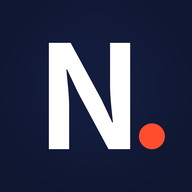
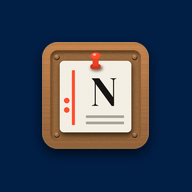
아이콘: S3 코르크 보드 시안 적용(#011E45, 56%), OG 이미지 갱신, SW nb-v8

diff --git a/politicians/index.html b/politicians/index.html
@@ -6,12 +6,12 @@
 <meta name="viewport" content="width=device-width,initial-scale=1,viewport-fit=cover">
 <title>정치인 DB · NewsBoard</title>
 <meta name="description" content="역대 국회의원 전원의 당선·정당 이력, 발의 법안, 뉴스 타임라인을 출처와 함께 정리한 공인 데이터베이스">
-<meta property="og:type" content="website"><meta property="og:site_name" content="NewsBoard"><meta property="og:title" content="정치인 DB — 역대 국회의원 타임라인"><meta property="og:description" content="당선·정당 이력, 발의 법안, 뉴스 타임라인을 출처와 함께"><meta property="og:image" content="https://pyw31337.github.io/news/og-image.png"><meta property="og:url" content="https://pyw31337.github.io/news/politicians/">
+<meta property="og:type" content="website"><meta property="og:site_name" content="NewsBoard"><meta property="og:title" content="정치인 DB — 역대 국회의원 타임라인"><meta property="og:description" content="당선·정당 이력, 발의 법안, 뉴스 타임라인을 출처와 함께"><meta property="og:image" content="https://pyw31337.github.io/news/og-image.png?v=8"><meta property="og:url" content="https://pyw31337.github.io/news/politicians/">
 <meta name="theme-color" content="#0f1630">
 <meta name="referrer" content="no-referrer">
 <link rel="manifest" href="manifest.webmanifest">
-<link rel="icon" href="icons/favicon-32.png" sizes="32x32"><link rel="icon" href="icons/icon-192.png" sizes="192x192">
-<link rel="apple-touch-icon" href="icons/apple-touch-icon.png">
+<link rel="icon" href="icons/favicon-32.png?v=8" sizes="32x32"><link rel="icon" href="icons/icon-192.png?v=8" sizes="192x192">
+<link rel="apple-touch-icon" href="icons/apple-touch-icon.png?v=8">
 <meta name="apple-mobile-web-app-capable" content="yes">
 <meta name="mobile-web-app-capable" content="yes">
 <meta name="apple-mobile-web-app-status-bar-style" content="black-translucent">

diff --git a/index.html b/index.html
@@ -11,7 +11,7 @@
 <meta property="og:site_name" content="NewsBoard">
 <meta property="og:title" content="NewsBoard — 오늘의 이슈와 사건의 흐름">
 <meta property="og:description" content="포털에서 가장 많이 회자된 오늘의 이슈 10개와, 인물·장소·사건을 따라가는 타임라인">
-<meta property="og:image" content="https://pyw31337.github.io/news/og-image.png">
+<meta property="og:image" content="https://pyw31337.github.io/news/og-image.png?v=8">
 <meta property="og:image:width" content="1200"><meta property="og:image:height" content="630">
 <meta property="og:url" content="https://pyw31337.github.io/news/">
 <meta property="og:locale" content="ko_KR">
@@ -21,8 +21,8 @@
 <meta name="theme-color" content="#0f1630">
 <meta name="referrer" content="no-referrer">
 <link rel="manifest" href="manifest.webmanifest">
-<link rel="icon" href="icons/favicon-32.png" sizes="32x32"><link rel="icon" href="icons/icon-192.png" sizes="192x192">
-<link rel="apple-touch-icon" href="icons/apple-touch-icon.png">
+<link rel="icon" href="icons/favicon-32.png?v=8" sizes="32x32"><link rel="icon" href="icons/icon-192.png?v=8" sizes="192x192">
+<link rel="apple-touch-icon" href="icons/apple-touch-icon.png?v=8">
 <meta name="apple-mobile-web-app-capable" content="yes">
 <meta name="mobile-web-app-capable" content="yes">
 <meta name="apple-mobile-web-app-status-bar-style" content="black-translucent">

diff --git a/sw.js b/sw.js
@@ -1,4 +1,4 @@
-const V='nb-v7',SHELL=['./','index.html','assets/style.css?v=7','assets/app.js?v=7','manifest.webmanifest','icons/icon-192.png','og-image.png'];
+const V='nb-v8',SHELL=['./','index.html','assets/style.css?v=7','assets/app.js?v=7','manifest.webmanifest','icons/icon-192.png','og-image.png'];
 self.addEventListener('install',e=>{e.waitUntil(caches.open(V).then(c=>c.addAll(SHELL)));self.skipWaiting()});
 self.addEventListener('activate',e=>{e.waitUntil(caches.keys().then(ks=>Promise.all(ks.filter(k=>k!==V).map(k=>caches.delete(k)))));self.clients.claim()});
 self.addEventListener('fetch',e=>{const u=new URL(e.request.url);if(e.request.method!=='GET'||u.origin!==location.origin)return;

diff --git a/admin/index.html b/admin/index.html
@@ -8,7 +8,7 @@
 <meta name="referrer" content="no-referrer">
 <meta name="theme-color" content="#0f1630">
 <title>NewsBoard 관리자</title>
-<link rel="icon" href="../icons/favicon-32.png">
+<link rel="icon" href="../icons/favicon-32.png?v=8">
 <link rel="stylesheet" href="https://cdn.jsdelivr.net/gh/orioncactus/pretendard@v1.3.9/dist/web/variable/pretendardvariable-dynamic-subset.min.css">
 <link rel="stylesheet" href="admin.css?v=1">
 </head>

diff --git a/scripts/make_icons.py b/scripts/make_icons.py
@@ -1,36 +1,31 @@
 #!/usr/bin/env python3
-"""아이콘 교체: python scripts/make_icons.py <원본이미지> [cx cy r]
-원본에서 원형 오브젝트(중심 cx,cy 반지름 r, 원본 대비 비율 0~1. 기본 0.5 0.485 0.28)를 잘라
-렛츠뷰 아이콘 비율(오브젝트 지름 = 아이콘 폭의 56%)로 남색 배경에 얹어 PWA 아이콘·파비콘·OG 이미지를 다시 만듭니다."""
+"""아이콘 생성: python scripts/make_icons.py [오브젝트 PNG(투명 배경 RGBA)]
+기본 오브젝트는 icons/candidates/s3_cork_object.png (scripts/render_icon_s3.py로 다시 그릴 수 있음).
+오브젝트 폭 = 아이콘 폭의 56%(렛츠뷰 비율), 배경 단색 #011E45로 PWA 아이콘·파비콘·OG 이미지를 만듭니다."""
 import sys, os
 from PIL import Image, ImageDraw, ImageFilter, ImageFont
 R = os.path.join(os.path.dirname(os.path.abspath(__file__)), '..')
-src = Image.open(sys.argv[1]).convert('RGB'); W, H = src.size
-cx, cy, r = [float(x) for x in sys.argv[2:5]] if len(sys.argv) >= 5 else (0.5, 0.485, 0.28)
-box = (int((cx - r) * W), int((cy - r) * H), int((cx + r) * W), int((cy + r) * H)); obj = src.crop(box).resize((1024, 1024), Image.LANCZOS)
-mask = Image.new('L', (1024, 1024), 0); ImageDraw.Draw(mask).ellipse((6, 6, 1018, 1018), fill=255); mask = mask.filter(ImageFilter.GaussianBlur(2))
-def bg(w, h):
-    g = Image.new('RGB', (w, h)); d = ImageDraw.Draw(g)
-    for y in range(h): t = y / h; d.line([(0, y), (w, y)], fill=(int(14 + 10 * (1 - t)), int(28 + 14 * (1 - t)), int(70 + 30 * (1 - t))))
-    return g
-def place(img, c, d):
-    sh = Image.new('L', img.size, 0); ImageDraw.Draw(sh).ellipse((c[0] - d / 2, c[1] - d / 2 + d * .05, c[0] + d / 2, c[1] + d / 2 + d * .05), fill=150)
-    img.paste((0, 0, 0), (0, 0), sh.filter(ImageFilter.GaussianBlur(d * .06)))
-    o = obj.resize((int(d), int(d)), Image.LANCZOS); m = mask.resize((int(d), int(d)), Image.LANCZOS)
-    img.paste(o, (int(c[0] - d / 2), int(c[1] - d / 2)), m); return img
-def icon(n, ratio=.56):
-    return place(bg(n, n), (n / 2, n / 2), n * ratio)
+NAVY = (1, 30, 69)
+src = sys.argv[1] if len(sys.argv) > 1 else os.path.join(R, 'icons/candidates/s3_cork_object.png')
+obj = Image.open(src).convert('RGBA'); obj = obj.crop(obj.getbbox())
+def place(img, c, w):
+    h = w * obj.height / obj.width; o = obj.resize((int(w), int(h)), Image.LANCZOS)
+    x, y = int(c[0] - w / 2), int(c[1] - h / 2)
+    sh = Image.new('L', img.size, 0); sh.paste(o.split()[3].point(lambda v: v * 160 // 255), (x, y + int(w * .05)))
+    img.paste((0, 0, 0), (0, 0), sh.filter(ImageFilter.GaussianBlur(max(1, w * .05))))
+    img.paste(o, (x, y), o); return img
+def icon(n, ratio=.56): return place(Image.new('RGB', (n, n), NAVY), (n / 2, n / 2), n * ratio)
 I = os.path.join(R, 'icons'); os.makedirs(I, exist_ok=True)
 icon(512).save(os.path.join(I, 'icon-512.png')); icon(192).save(os.path.join(I, 'icon-192.png'))
-icon(512, .50).save(os.path.join(I, 'maskable-512.png'))  # 마스킹 안전영역 고려
-icon(180).save(os.path.join(I, 'apple-touch-icon.png')); icon(32, .8).save(os.path.join(I, 'favicon-32.png'))
-og = place(bg(1200, 630), (600, 300), 330)
-d = ImageDraw.Draw(og)
-def F(s, b=True):
-    for p in ('/usr/share/fonts/opentype/noto/NotoSansCJK-Bold.ttc', '/System/Library/Fonts/AppleSDGothicNeo.ttc', '/usr/share/fonts/opentype/noto/NotoSerifCJK-Bold.ttc'):
-        try: return ImageFont.truetype(p, s, index=1 if 'Sans' in p else 0)
+icon(512, .50).save(os.path.join(I, 'maskable-512.png'))  # 마스킹 안전영역
+icon(180).save(os.path.join(I, 'apple-touch-icon.png')); icon(32, .9).save(os.path.join(I, 'favicon-32.png'))
+og = place(Image.new('RGB', (1200, 630), NAVY), (600, 290), 300); d = ImageDraw.Draw(og)
+def F(s):
+    for p in ('/usr/share/fonts/opentype/noto/NotoSansCJK-Bold.ttc', '/System/Library/Fonts/AppleSDGothicNeo.ttc'):
+        try: return ImageFont.truetype(p, s, index=1 if 'Noto' in p else 0)
         except Exception: pass
     return ImageFont.load_default()
-d.text((215, 300), '오늘의 이슈', font=F(44), fill='white', anchor='mm'); d.text((985, 300), '사건의 흐름', font=F(44), fill='white', anchor='mm')
-d.text((600, 525), 'NewsBoard.', font=F(56), fill='white', anchor='mm'); d.text((600, 585), 'pyw31337.github.io/news', font=F(24), fill=(170, 180, 210), anchor='mm')
+d.text((240, 270), '오늘의 이슈', font=F(46), fill='white', anchor='mm'); d.text((240, 330), 'TOP 10 · 요약', font=F(26), fill=(255, 120, 95), anchor='mm')
+d.text((960, 270), '사건의 흐름', font=F(46), fill='white', anchor='mm'); d.text((960, 330), '인물 · 타임라인', font=F(26), fill=(255, 120, 95), anchor='mm')
+d.text((600, 510), 'NewsBoard.', font=F(56), fill='white', anchor='mm'); d.text((600, 572), 'pyw31337.github.io/news', font=F(24), fill=(150, 165, 200), anchor='mm')
 og.save(os.path.join(R, 'og-image.png')); print('ok')

diff --git a/scripts/render_icon_s3.py b/scripts/render_icon_s3.py
@@ -1,0 +1,47 @@
+import numpy as np
+from PIL import Image, ImageDraw, ImageFilter, ImageFont, ImageChops
+S=1024; rng=np.random.default_rng(7)
+def rr(size,box,r,fill=255):
+    m=Image.new('L',size,0); ImageDraw.Draw(m).rounded_rectangle(box,r,fill=fill); return m
+def noise(w,h,scale,amp,base):
+    n=rng.normal(0,1,(h//scale+1,w//scale+1)); n=np.array(Image.fromarray(((n+3)/6*255).clip(0,255).astype('uint8')).resize((w,h),Image.BICUBIC),float)/255-.5
+    return (np.array(base,float)[None,None,:]+n[...,None]*amp).clip(0,255)
+obj=Image.new('RGBA',(S,S),(0,0,0,0))
+# wood frame with horizontal grain
+g=rng.normal(0,1,(S,1)); g=np.repeat(g,S,1); g=np.array(Image.fromarray(((g+3)/6*255).clip(0,255).astype('uint8')).filter(ImageFilter.GaussianBlur(2)),float)/255-.5
+wood=(np.array([176,118,70],float)[None,None,:]+g[...,None]*50+noise(S,S,6,18,[0,0,0])).clip(0,255)
+yy=np.linspace(1.12,.82,S)[:,None,None]; wood=(wood*yy).clip(0,255)
+W=Image.fromarray(wood.astype('uint8')).convert('RGBA')
+obj.paste(W,(0,0),rr((S,S),(0,0,S-1,S-1),150))
+# bevel highlights
+hl=Image.new('RGBA',(S,S),(0,0,0,0)); d=ImageDraw.Draw(hl)
+d.rounded_rectangle((6,6,S-7,S-7),145,outline=(255,230,190,110),width=8)
+obj=Image.alpha_composite(obj,hl.filter(ImageFilter.GaussianBlur(4)))
+# cork inset
+ci=(78,78,S-78,S-78)
+cork=Image.fromarray(noise(S,S,2,70,[150,104,62]).astype('uint8')).convert('RGBA')
+cm=rr((S,S),ci,70); obj.paste(cork,(0,0),cm)
+# inner shadow on cork
+inner=Image.new('L',(S,S),0); ImageDraw.Draw(inner).rounded_rectangle(ci,70,fill=255)
+sh=ImageChops.subtract(inner, rr((S,S),(ci[0]+14,ci[1]+22,ci[2]-6,ci[3]-4),60)).filter(ImageFilter.GaussianBlur(14))
+sh=ImageChops.multiply(sh,inner); obj.paste((40,20,5,255),(0,0),sh.point(lambda v:int(v*.8)))
+# screws
+for x,y in [(140,140),(S-140,140),(140,S-140),(S-140,S-140)]:
+    sd=ImageDraw.Draw(obj); sd.ellipse((x-24,y-20,x+28,y+32),fill=(60,35,15,150)); sd.ellipse((x-24,y-24,x+24,y+24),fill=(150,100,60)); sd.ellipse((x-16,y-18,x+12,y+6),fill=(185,135,90))
+# card shadow + card
+card=(170,180,S-170,S-160)
+cs=rr((S,S),(card[0]+6,card[1]+26,card[2]+10,card[3]+34),40,170).filter(ImageFilter.GaussianBlur(22)); obj.paste((20,10,0,255),(0,0),cs)
+paper=Image.fromarray(noise(S,S,1,10,[244,239,228]).astype('uint8')).convert('RGBA')
+obj.paste(paper,(0,0),rr((S,S),card,40))
+cd=ImageDraw.Draw(obj); OR=(255,77,46)
+lx=card[0]+130; cd.rounded_rectangle((lx-14,card[1]+90,lx+14,card[3]-70),6,fill=OR)
+for y in (card[1]+380,card[1]+470): cd.ellipse((lx-90,y-26,lx-38,y+26),fill=OR)
+f=ImageFont.truetype('/usr/share/fonts/truetype/sand-box/google/DM Serif Display/DMSerifDisplay-Regular.ttf',400)
+cd.text((card[0]+425,card[1]+290),'N',font=f,fill=(24,22,20),anchor='mm')
+for y in (card[3]-150,card[3]-90): cd.rounded_rectangle((card[0]+250,y-12,card[2]-70,y+12),4,fill=(165,162,155))
+# pushpin
+px,py=S//2,card[1]+10
+ps=Image.new('L',(S,S),0); ImageDraw.Draw(ps).ellipse((px-50,py+30,px+70,py+90),fill=140); obj.paste((30,15,0,255),(0,0),ps.filter(ImageFilter.GaussianBlur(12)))
+cd.rounded_rectangle((px-50,py+20,px+50,py+70),30,fill=(205,55,30)); cd.rounded_rectangle((px-28,py-60,px+28,py+40),14,fill=(235,66,38))
+cd.ellipse((px-48,py-90,px+48,py-30),fill=(255,77,46)); cd.ellipse((px-26,py-82,px+6,py-58),fill=(255,165,140))
+obj.save('/workspace/icon/s3_object.png'); print('ok')
